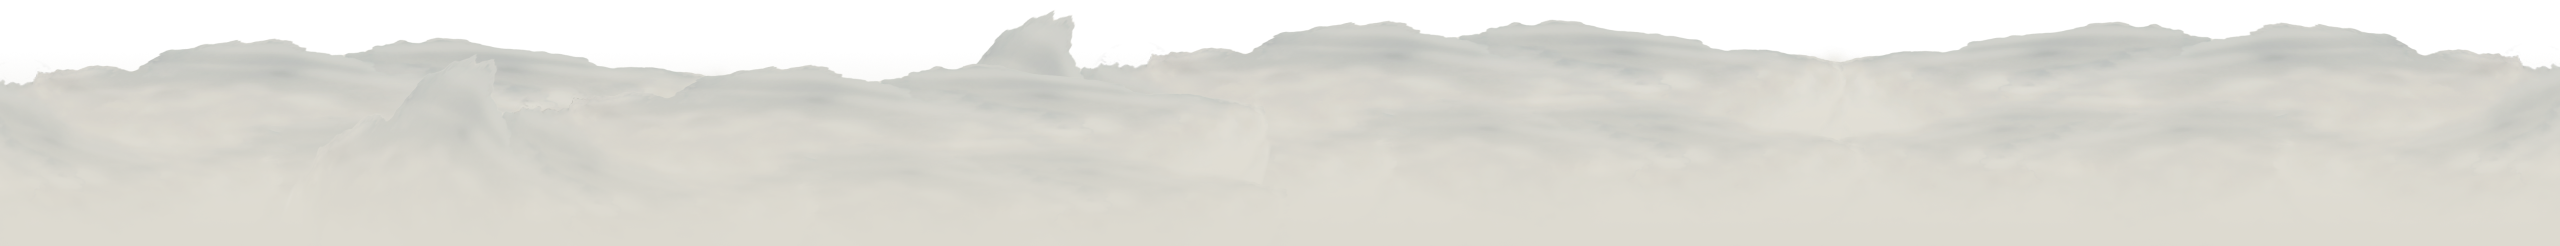
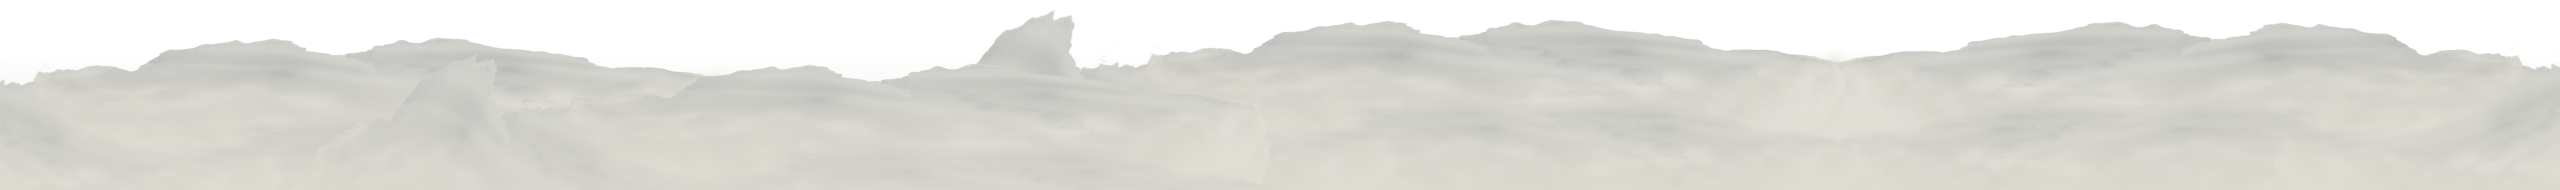
Done with the cloud take 2

diff --git a/src/index.html b/src/index.html
@@ -11,7 +11,7 @@
   <body>
     <div class="noise-overlay"></div>
     <nav>
-      <div class="navbar padded">
+      <div class="navbar inline-padded">
         <ul>
           <li><a href="#">SEDRA</a></li>
           <li>
@@ -54,7 +54,7 @@
         </div>
         <img class="overlay align-bottom" src="/img/cloud-top.png" alt="">
       </div>
-      <div class="header-grid padded">
+      <div class="header-grid inline-padded">
         <h1>Explore the world, create lasting <b>memories</b>.</h1>
         <a href="#" class="btn-main">
           <img src="/svg/hero-button.svg" alt="Indicator of explore more" />
@@ -62,17 +62,17 @@
         </a>
       </div>
 
-      <div class="align-bottom padded">
+      <div class="align-bottom inline-padded">
         <div class="space-between">
-          <div class="indicator-scroll">
-            <img src="/svg/arrow-down.svg" alt="Scroll down" />
-          </div>
+          <!-- <div class="indicator-scroll"> -->
+          <!--   <img src="/svg/arrow-down.svg" alt="Scroll down" /> -->
+          <!-- </div> -->
         </div>
       </div>
       <img class="black-background" src="/img/cloud-bottom.png" alt="">
     </section>
 
-    <section id="retreats" class="black-background">
+    <section id="retreats" class="black-background inline-padded block-padded block-padded">
       <h2>Upcoming Retreats</h2>
       <p>
         Lorem ipsum dolor sit amet, qui minim labore adipisicing minim sint
@@ -89,7 +89,7 @@
       <img width="100%" src="/img/images-stack1.png" alt="Old radio">
     </section>
 
-    <section id="gallery" class="sand-background">
+    <section id="gallery" class="sand-background block-padded">
       <h2>Pictures From Our Retreats</h2>
       <div class="gallery-carousel"></div>
     </section>

diff --git a/src/scss/components/slider.scss b/src/scss/components/slider.scss
@@ -2,7 +2,6 @@
 
 .slider-container {
   overflow: hidden;
-  margin-bottom: 1.75rem;
   display: flex;
   align-items: end;
 }
@@ -10,11 +9,15 @@
 .slider {
   display: flex;
   transition: transform 1.5s ease-in-out;
+  z-index: -100;
 }
 
 .hero-images {
   width: 100%;
-  height: 72vh;
+  height: 70vh;
+  @media only screen and (min-width: 1200px) {
+    height: 80vh;
+  }
   flex-shrink: 0;
 }
 
@@ -23,11 +26,11 @@
 }
 
 .gallery-carousel {
+  scroll-snap-type: proximity;
   padding-block: 3rem;
   cursor: grab;
   display: flex;
   overflow-x: scroll;
-  gap: 3rem;
 
   scrollbar-width: none;
   -ms-overflow-style: none;
@@ -37,6 +40,7 @@
   }
 
   img {
+    margin-left: 3rem;
     width: 100vw;
     height: 72vh;
   }

diff --git a/src/scss/utils/containers.scss b/src/scss/utils/containers.scss
@@ -1,8 +1,12 @@
-.padded {
+.inline-padded {
   padding-inline: 1.375rem;
   @media only screen and (min-width: 768px) {
     padding-inline: 2.375rem;
   }
+}
+
+.block-padded {
+  padding-block: 3rem;
 }
 
 .space-between {

diff --git a/src/scss/pages/home.scss b/src/scss/pages/home.scss
@@ -9,11 +9,9 @@
   }
 
   .overlay {
-    @media only screen and (min-width: 1200px) {
-      top: 65%;
-    }
+    width: 100%;
     position: absolute;
     overflow: visible;
-    z-index: 100;
+    z-index: -1;
   }
 }

diff --git a/src/scss/components/card.scss b/src/scss/components/card.scss
@@ -1,6 +1,7 @@
 .retreat-card {
   transition: transform 0.5s ease-in-out;
   width: 100%;
+  height: 60vh;
 
   & img {
     border-radius: 0.85rem;
